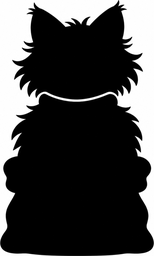
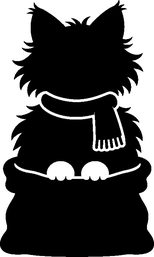
Кружок входа: силуэт Котейки с лапками на краю мешка и шарфом с хвостиком (окошки показывают --pen-soft), фигура 86% высоты, прижата к низу
Claude-Session: https://claude.ai/code/session_016bVaCQyfwyCtB86fKvsZ4q

diff --git a/home.css b/home.css
@@ -45,7 +45,7 @@ header.top nav .cur{color:var(--ink); text-decoration:underline; text-underline-
 header.top nav a[aria-current], header.top nav .cur{color:var(--ink); text-decoration-color:var(--coral); text-decoration-thickness:2px}
 /* кружок входа: силуэт Котейки (маска, цвет — токен --pen); после входа — фото или буква */
 .me{flex:none; width:34px; height:34px; border-radius:50%; background:var(--pen-soft, #E6ECF7); border:1.5px solid var(--pen); display:inline-flex; align-items:center; justify-content:center; overflow:hidden; text-decoration:none; color:var(--pen)}
-.me .me-i{display:block; width:60%; height:85%; background:var(--pen); -webkit-mask:url(/img/kotejka-silhouette.png) center/contain no-repeat; mask:url(/img/kotejka-silhouette.png) center/contain no-repeat}
+.me .me-i{display:block; width:60%; height:86%; align-self:flex-end; background:var(--pen); -webkit-mask:url(/img/kotejka-silhouette.png?v=2) center bottom/contain no-repeat; mask:url(/img/kotejka-silhouette.png?v=2) center bottom/contain no-repeat}
 .me img{width:100%; height:100%; object-fit:cover; display:block}
 .me .me-l{font:var(--fw-strong) .9375rem/1 var(--body); color:var(--pen)}
 .me:hover, .me:focus-visible{box-shadow:0 0 0 3px var(--pen-soft)}
